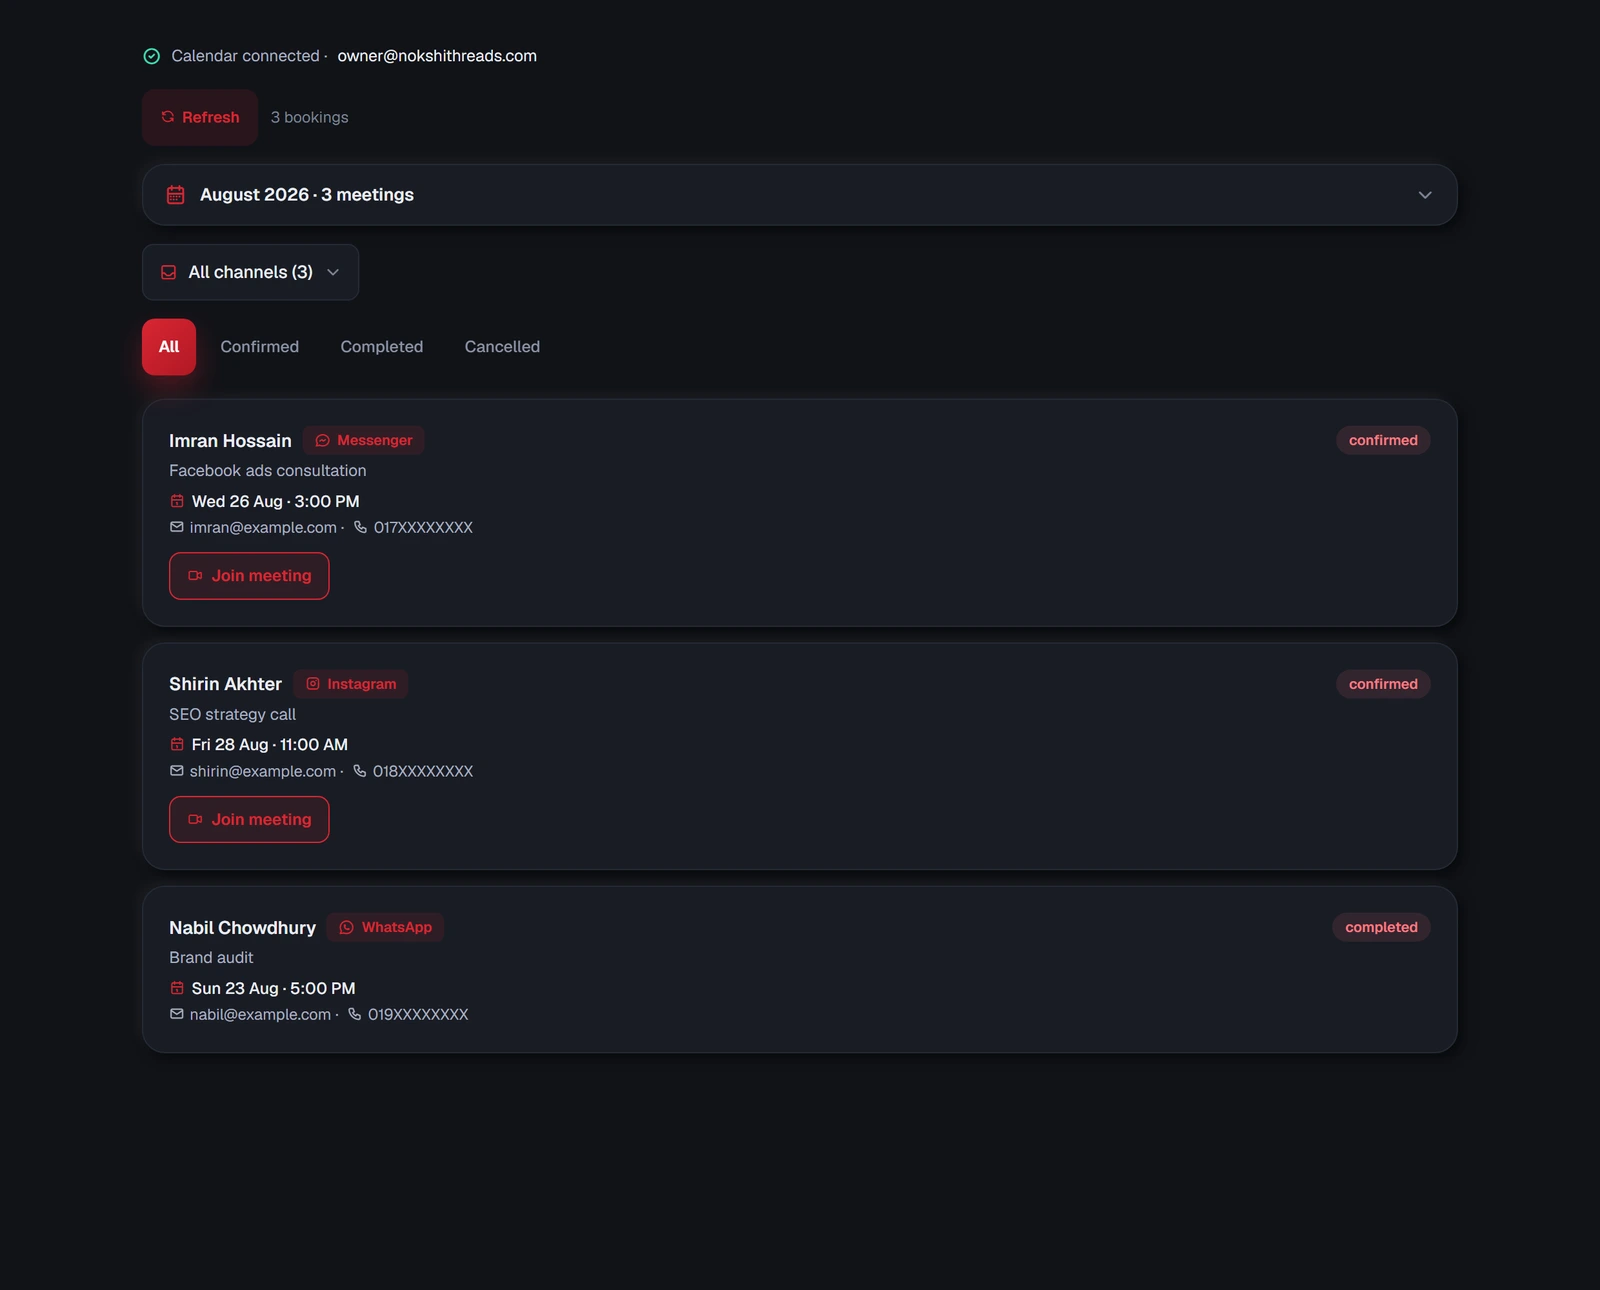
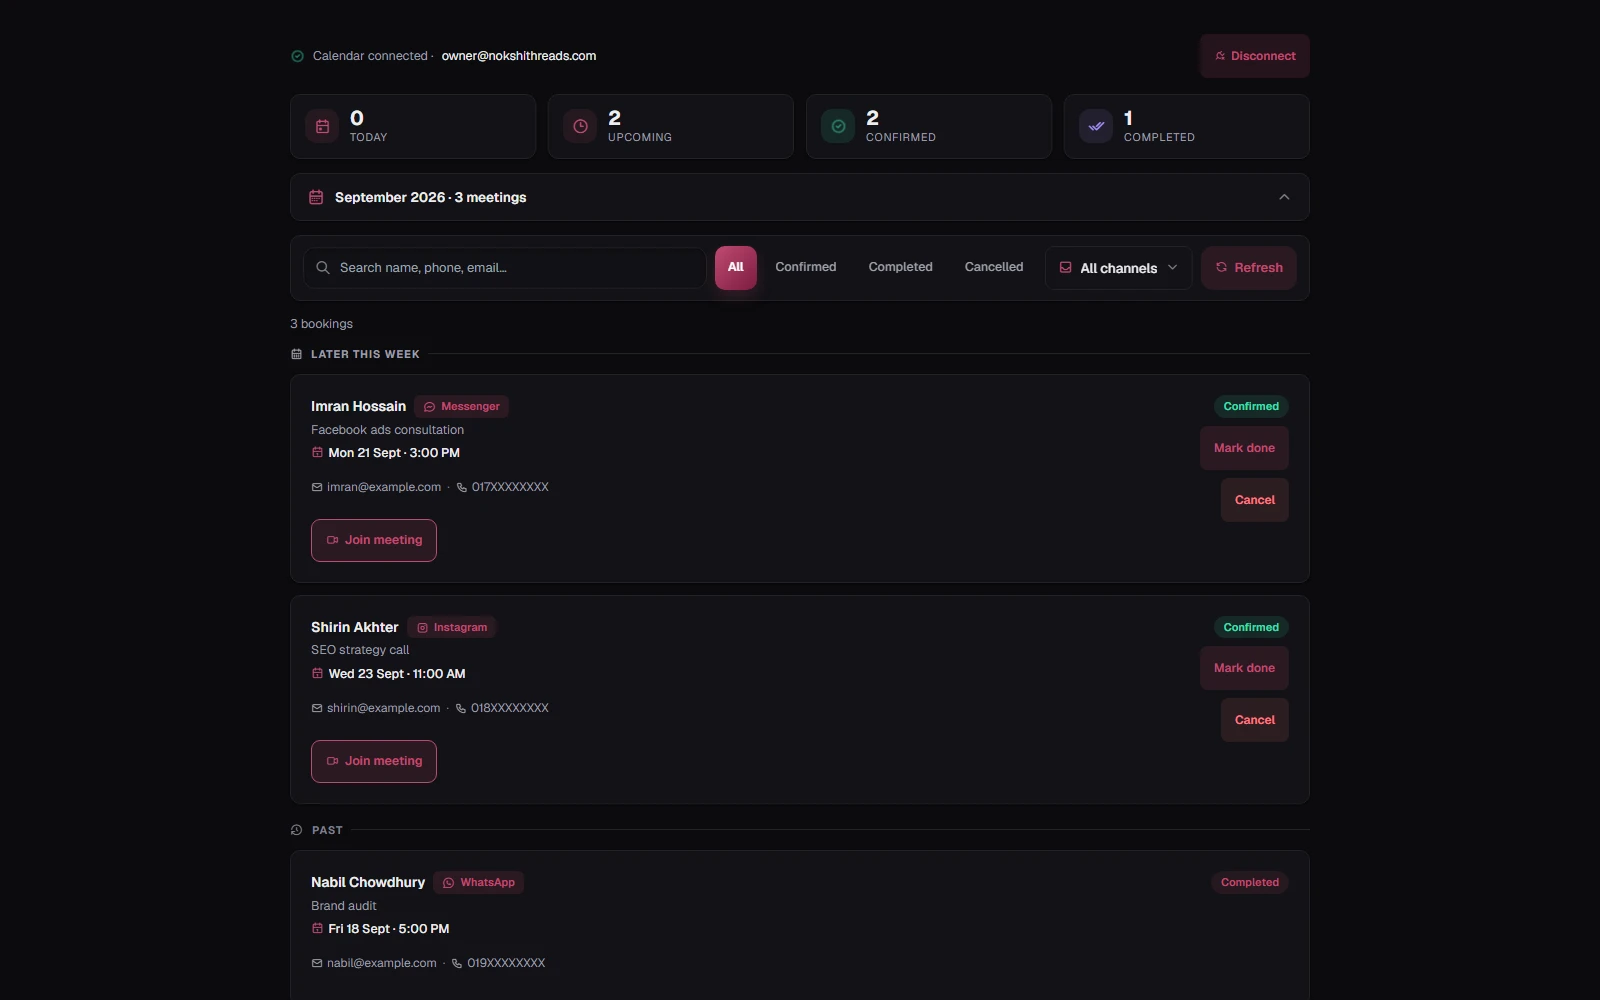
Bookings: month open on a laptop, week strip on a phone, list grouped by when (stage 3)
Design handoff Part 3, screen 3. The month grid (dots for booked days,
the chosen day's agenda with Join beside it) now opens by default on a
laptop instead of behind a collapsed bar. A phone gets a strip of the
next seven days above it — a dot per confirmed meeting, a tick when the
day's meetings are done, tap to filter, tap again to clear — with the
month one tap away underneath. The list is headed Today / Later this
week / Coming up / Past; the headings step aside while a day or range is
chosen. Manual updated in EN and BN with a fresh screenshot. 60/60 pass;
checked at 1280 (light, dark) and 390 px.

diff --git a/src/app/dashboard/components/Bookings.js b/src/app/dashboard/components/Bookings.js
@@ -48,9 +48,9 @@ const fmtKey = (k, opt) => new Date(k + "T12:00:00").toLocaleDateString("en-GB",
   opt || { day: "numeric", month: "short", year: "numeric" });
 const dayCount = (a, b) => Math.round((new Date(b + "T12:00:00") - new Date(a + "T12:00:00")) / 864e5) + 1;
 
-function MonthGrid({ bookings, selected, onSelect }) {
+function MonthGrid({ bookings, selected, onSelect, defaultOpen = false }) {
   const [cursor, setCursor] = useState(() => { const d = new Date(); d.setDate(1); return d; });
-  const [open, setOpen] = useState(false);
+  const [open, setOpen] = useState(defaultOpen);
   const inner = useRef(null);
   const [h, setH] = useState(0);
   const touch = useRef(null);
@@ -299,6 +299,33 @@ function keyOf(d) {
   return d.toLocaleDateString("en-CA", { timeZone: "Asia/Dhaka" });   // YYYY-MM-DD
 }
 
+// The phone's calendar (design handoff Part 3): the next seven days as a strip
+// of chips, a dot for each confirmed meeting, a tick when the day's meetings
+// are done. Tap a day to see only it; tap again to see everything. The month
+// grid stays one tap away underneath for anything further out.
+function WeekStrip({ bookings, selected, onSelect }) {
+  const days = Array.from({ length: 7 }, (_, i) => { const d = new Date(); d.setDate(d.getDate() + i); return d; });
+  const byDay = {};
+  bookings.forEach((b) => { if (!b.meeting_datetime) return; const d = new Date(b.meeting_datetime); if (!isNaN(d)) (byDay[keyOf(d)] = byDay[keyOf(d)] || []).push(b); });
+  const todayKey = keyOf(new Date());
+  const on = (k) => selected?.a === k && (!selected.b || selected.b === k);
+  return <div style={{ display: "grid", gridTemplateColumns: "repeat(7, 1fr)", gap: 6, marginBottom: 14 }}>
+    {days.map((d) => { const k = keyOf(d); const items = byDay[k] || []; const live = items.filter((b) => b.status === "Confirmed").length; const done = items.filter((b) => b.status === "Completed").length; const sel = on(k); const today = k === todayKey;
+      return <button key={k} onClick={() => onSelect(sel ? null : { a: k })} className="ui-btn"
+        aria-label={`${d.toLocaleDateString("en-GB", { weekday: "long", day: "numeric", month: "long" })}${items.length ? `, ${items.length} meeting` : ""}`} aria-pressed={sel}
+        style={{ display: "flex", flexDirection: "column", alignItems: "center", gap: 3, padding: "8px 2px 7px", borderRadius: 10, cursor: "pointer", fontFamily: "inherit", minWidth: 0,
+          border: `1px solid ${sel ? "transparent" : today ? T.gold : T.border}`, background: sel ? T.accGrad : T.card, color: sel ? T.onGold : T.text, boxShadow: sel ? T.accGlow : "none" }}>
+        <span style={{ fontSize: 10, fontWeight: 600, letterSpacing: .4, textTransform: "uppercase", color: sel ? T.onGold : T.textDim }}>{d.toLocaleDateString("en-GB", { weekday: "short" }).slice(0, 2)}</span>
+        <span style={{ fontSize: 15, fontWeight: 700, lineHeight: 1 }}>{d.getDate()}</span>
+        <span style={{ display: "flex", gap: 2, height: 5, alignItems: "center" }}>
+          {done > 0 && <i className="ti ti-check" style={{ fontSize: 9, lineHeight: 1, color: sel ? T.onGold : T.success }} />}
+          {Array.from({ length: Math.min(live, 3) }).map((_, n) => <span key={n} style={{ width: 4, height: 4, borderRadius: "50%", background: sel ? T.onGold : T.gold }} />)}
+        </span>
+      </button>; })}
+  </div>;
+}
+
+
 export default function Bookings({calConnected,clientId}) {
   const isMobile=useIsMobile();
   const [bookings,setBookings]=useState([]);
@@ -471,7 +498,8 @@ export default function Bookings({calConnected,clientId}) {
           </div>
         </Card>)}
     </div>}
-    {bookings.length>0&&<MonthGrid bookings={bookings} selected={day} onSelect={setDay}/>}
+    {bookings.length>0&&isMobile&&<WeekStrip bookings={bookings} selected={day} onSelect={setDay}/>}
+    {bookings.length>0&&<MonthGrid bookings={bookings} selected={day} onSelect={setDay} defaultOpen={!isMobile}/>}
 
     {day?.a&&<div style={{display:"flex",alignItems:"center",gap:10,marginBottom:12,padding:"9px 13px",
       borderRadius:12,background:T.goldBg,border:`1px solid color-mix(in srgb, ${T.gold} 30%, transparent)`,fontSize:13}}>
@@ -544,7 +572,17 @@ export default function Bookings({calConnected,clientId}) {
       // order. The controls inside it stop the click from bubbling, so
       // "Join meeting", the phone number and the two status buttons still do
       // their own job rather than opening the drawer behind them.
-      :filtered.map(b=><Card key={b.id} onClick={()=>setOpen(b)} role="button" tabIndex={0}
+      :filtered.flatMap((b,i)=>{
+        // A heading whenever the list moves to the next stretch of time — the
+        // design's "Later this week". Left out while a day or range is chosen,
+        // where the heading above the list already says which day it is.
+        const g=group(b._w.ts), prev=i?group(filtered[i-1]._w.ts):null;
+        const label=g==="today"?"Today":g==="week"?"Later this week":g==="later"?"Coming up":"Past";
+        const head=(!day?.a&&g!==prev)?[<div key={"h-"+g} style={{display:"flex",alignItems:"center",gap:8,fontSize:11,fontWeight:700,letterSpacing:".08em",textTransform:"uppercase",color:g==="past"?T.textDim:T.textMuted,marginTop:i?6:0}}>
+          <i className={`ti ${g==="today"?"ti-sun":g==="week"?"ti-calendar-week":g==="later"?"ti-calendar-month":"ti-history"}`} style={{fontSize:13}}/>{label}
+          <span style={{flex:1,height:1,background:T.border}}/>
+        </div>]:[];
+        return [...head,<Card key={b.id} onClick={()=>setOpen(b)} role="button" tabIndex={0}
         onKeyDown={e=>{if(e.key==="Enter"||e.key===" "){e.preventDefault();setOpen(b);}}}
         style={{cursor:"pointer"}}>
         <div style={{display:"flex",justifyContent:"space-between",alignItems:"flex-start",gap:12}}>
@@ -605,7 +643,7 @@ export default function Bookings({calConnected,clientId}) {
             {b.status==="Confirmed"&&<Btn small danger onClick={()=>cancel(b)}>Cancel</Btn>}
           </div>
         </div>
-      </Card>)}
+      </Card>];})}
     </div>
 
     {/* Re-read from `bookings` on every render so the drawer follows a status

diff --git a/src/lib/docs/bn.js b/src/lib/docs/bn.js
@@ -923,7 +923,8 @@ export const DOCS = {
 
       { h: "ক্যালেন্ডারটা",
         p: [
-          "মাসের ছকে যেসব দিনে কিছু বুক করা আছে সেগুলো চিহ্নিত থাকে; কোনো দিনে চাপ দিলে কেবল ঐ দিনটা দেখায়। উপরে **Next 7 days** আর **This month** দিয়ে সময়ের ভাগ বদলায়, আর তীরচিহ্ন দিয়ে মাস বদলানো যায়।",
+          "মাসের ছকে যেসব দিনে কিছু বুক করা আছে সেগুলো চিহ্নিত থাকে; কোনো দিনে চাপ দিলে কেবল ঐ দিনটা দেখায়। উপরে **Next 7 days** আর **This month** দিয়ে সময়ের ভাগ বদলায়, আর তীরচিহ্ন দিয়ে মাস বদলানো যায়। ল্যাপটপে মাসটা শুরু থেকেই খোলা থাকে; ফোনে তার উপরে পরের সাত দিনের একটা সারি থাকে — প্রতিটা মিটিংয়ের জন্য একটা বিন্দু — আর মাসটা নিচে এক চাপ দূরে।",
+          "নিচের তালিকা সময় অনুযায়ী ভাগ করা: **Today**, **Later this week**, **Coming up**, আর সবার নিচে **Past**। কোনো দিন বা সময়ের ভাগ বাছলে শিরোনামগুলো সরে গিয়ে সেই দিনের তালিকা দেখায়।",
           "প্রতিটা বুকিং দেখায় কে, কখন, কোন চ্যানেল থেকে এসেছে, আর একটা **ভিডিও** আইকন যেটা Meet লিংক খোলে।",
         ],
         biz: "agency" },

diff --git a/src/lib/docs/en.js b/src/lib/docs/en.js
@@ -930,7 +930,8 @@ export const DOCS = {
 
       { h: "The calendar",
         p: [
-          "The month view marks every day that has something booked; tap a day to see just that day. Above it, **Next 7 days** and **This month** switch the range, and the arrows move between months.",
+          "The month view marks every day that has something booked; tap a day to see just that day. Above it, **Next 7 days** and **This month** switch the range, and the arrows move between months. On a laptop the month is open from the start; on a phone a strip of the next seven days sits above it — a dot for each meeting — and the month is one tap away below.",
+          "The list underneath is grouped by when: **Today**, **Later this week**, **Coming up**, and **Past** at the bottom. Choose a day or a range and the headings give way to that day's list.",
           "Each booking shows the person, the time, which channel they came from, and a **video** icon that opens the Meet link.",
         ],
         biz: "agency" },
